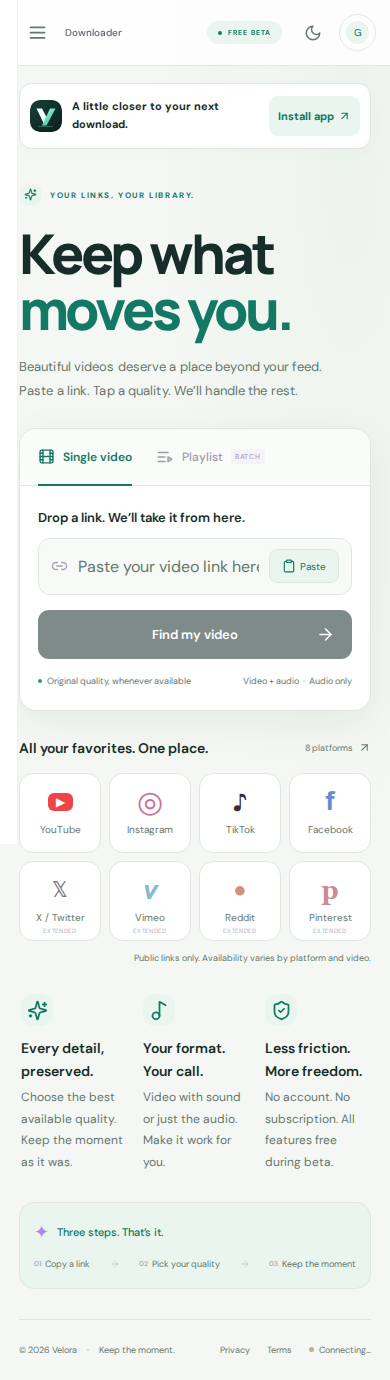
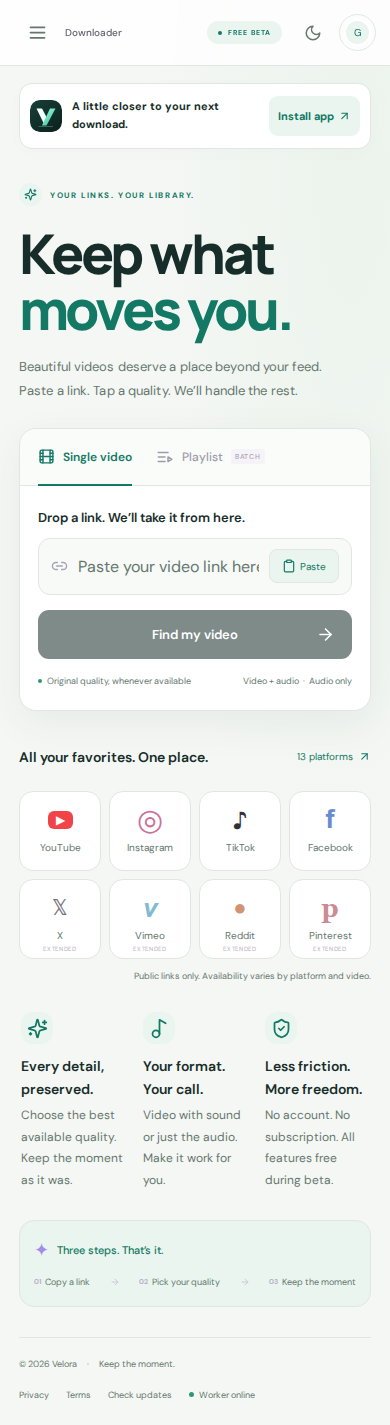
Record public release checks and installation screenshots

diff --git a/VERIFICATION.md b/VERIFICATION.md
@@ -63,3 +63,7 @@ This is a deployed small beta, not a guarantee of unrestricted social-platform d
 - The final preview check exposed `Vary: Origin` headers preventing offline module/cache matches. Public precached assets now match by URL independent of that header; the two-release server includes the same header for regression coverage.
 
 - Final automated checks: 49 backend, 22 mobile/desktop UI, 3 real two-release update and 1 production offline PWA check passed (75 total). Production dependency audit reported zero vulnerabilities. The TypeScript/Vite build and whitespace checks passed.
+
+- Public deployment `bf5f5cc` is ready. Actual first-visit popups passed at 320px/390px, responsive layouts passed at 320/390/768/1440px, and the public mobile app reopened offline. `/version.json` returned the correct build with `Cache-Control: no-cache, must-revalidate`.
+- A live public mobile browser analyzed the Snapchat sample in 7.24 seconds; one quality tap automatically saved H.264/AAC MP4 (480 × 880) in 15.48 seconds. Full-file FFmpeg decoding passed and the test job/file was removed. These are sample observations, not universal timing promises.
+- Production screenshots were refreshed, including `docs/mobile-install.png`. The Ubuntu worker and HTTPS connector were active after the worker update; no production job was queued or processing at restart.
